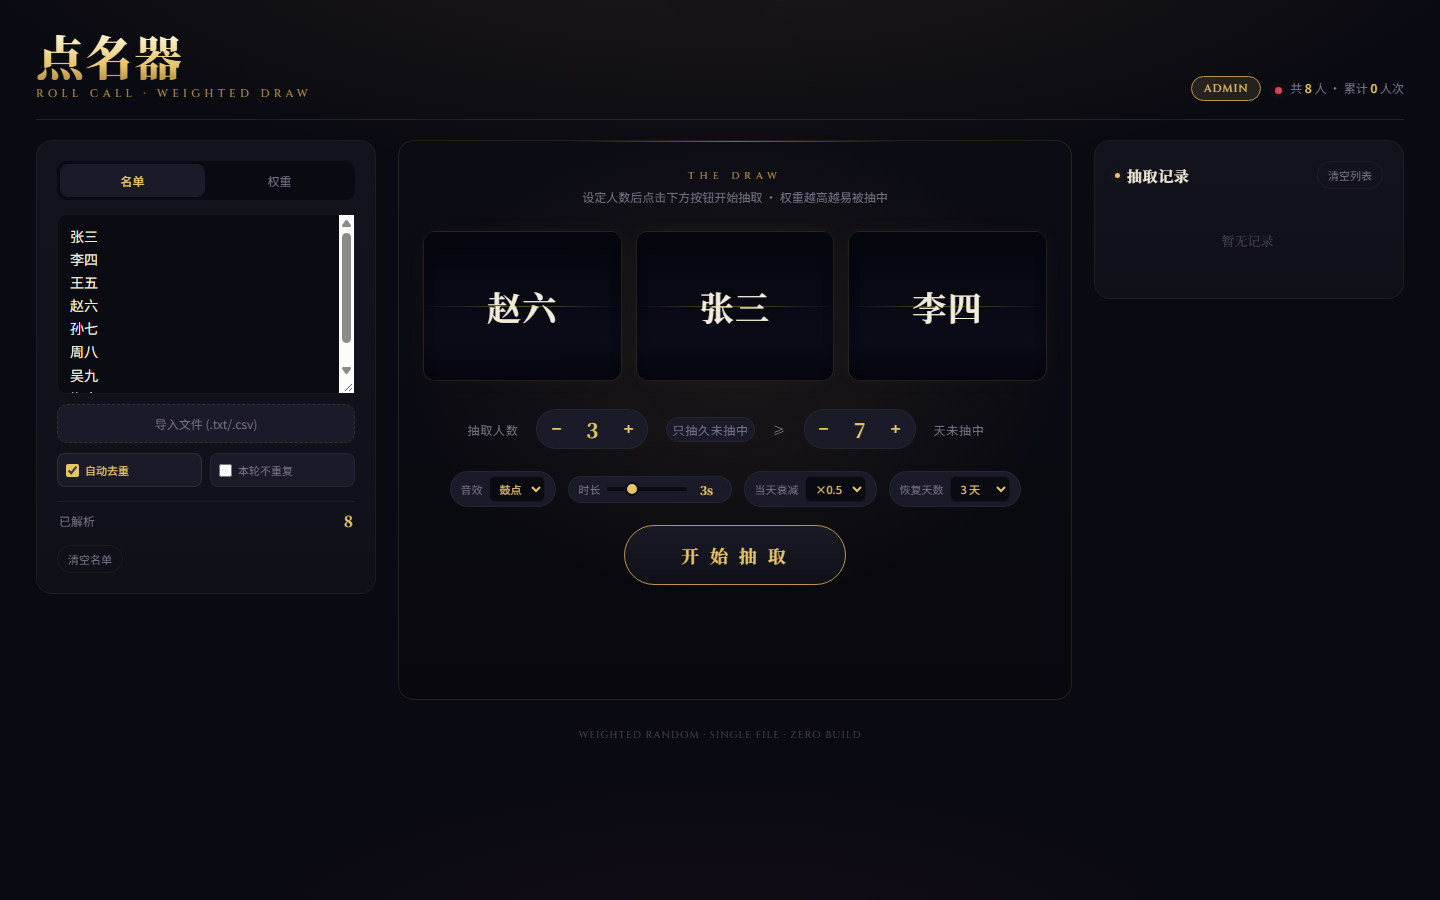
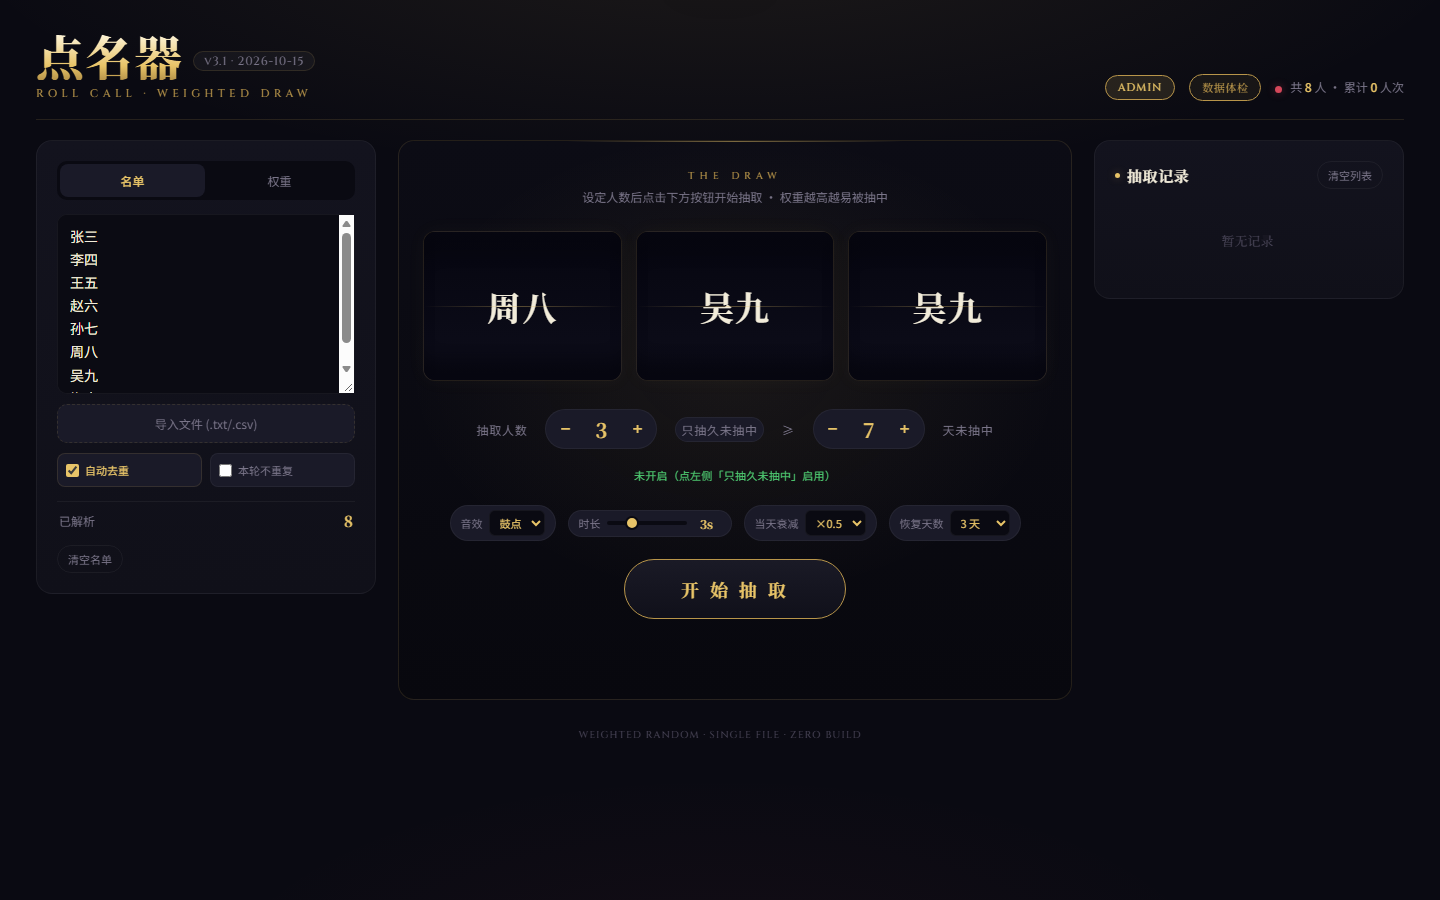
Update to v3.1: auto-enable longMode on threshold change, merge save to prevent overwrite, data self-heal, health check panel

diff --git a/index.html b/index.html
@@ -61,6 +61,45 @@ header.top{
 }
 .role-badge.admin{background:rgba(232,196,104,.12);border:1px solid var(--gold-dim);color:var(--gold)}
 .role-badge.viewer{background:rgba(78,203,113,.1);border:1px solid rgba(78,203,113,.3);color:var(--green)}
+.ver{
+  display:inline-block;margin-left:10px;font-family:var(--display);font-weight:500;
+  font-size:12px;letter-spacing:.06em;color:var(--muted);
+  background:rgba(255,255,255,.04);border:1px solid var(--line);border-radius:20px;padding:3px 10px;
+  vertical-align:middle;transform:translateY(-3px);
+}
+.mini-btn{
+  font-family:var(--display);font-size:11px;letter-spacing:.05em;color:var(--gold-dim);
+  background:rgba(232,196,104,.06);border:1px solid var(--gold-dim);border-radius:20px;
+  padding:4px 12px;cursor:pointer;transition:all .2s;
+}
+.mini-btn:hover{background:rgba(232,196,104,.15);color:var(--gold)}
+.health-mask{
+  position:fixed;inset:0;z-index:999;display:flex;align-items:center;justify-content:center;
+  background:rgba(0,0,0,.55);backdrop-filter:blur(3px);padding:16px;
+}
+.health-panel{
+  width:min(720px,94vw);max-height:80vh;display:flex;flex-direction:column;
+  background:linear-gradient(180deg,#17130d,#14100b);border:1px solid var(--gold-dim);
+  border-radius:14px;box-shadow:0 24px 70px rgba(0,0,0,.6);overflow:hidden;
+}
+.hp-head{
+  display:flex;align-items:center;justify-content:space-between;
+  padding:14px 18px;border-bottom:1px solid var(--line);
+  font-family:var(--serif);font-weight:700;font-size:16px;color:var(--gold);
+}
+.hp-head button{
+  background:none;border:none;color:var(--muted);font-size:20px;cursor:pointer;line-height:1;
+}
+.hp-head button:hover{color:var(--gold)}
+.hp-body{padding:14px 18px 18px;overflow:auto;font-size:13px}
+.hp-line{margin-bottom:8px;line-height:1.7;color:var(--text)}
+.hp-table{width:100%;border-collapse:collapse;margin-top:8px}
+.hp-table th{
+  text-align:left;font-family:var(--display);font-weight:500;font-size:11px;
+  letter-spacing:.05em;color:var(--gold-dim);padding:6px 8px;border-bottom:1px solid var(--line);
+}
+.hp-table td{padding:6px 8px;border-bottom:1px solid rgba(255,255,255,.04);color:var(--text)}
+.hp-table tr:last-child td{border-bottom:none}
 .conn-dot{
   width:7px;height:7px;border-radius:50%;display:inline-block;margin-right:5px;
   vertical-align:middle;
@@ -454,11 +493,12 @@ textarea.names::placeholder{color:var(--muted2)}
 <div class="app is-admin" id="app">
   <header class="top">
     <div class="brand">
-      <h1>点名器</h1>
+      <h1>点名器<span class="ver">v3.1 · 2026-10-15</span></h1>
       <div class="sub">Roll Call · Weighted Draw</div>
     </div>
     <div class="top-right">
       <span class="role-badge admin" id="roleBadge">ADMIN</span>
+      <button class="mini-btn" id="healthBtn" title="查看名单抽取状态、开关与数据是否正常">数据体检</button>
       <div class="top-meta">
         <span class="conn-dot off" id="connDot"></span>
         共 <b id="metaCount">0</b> 人 · 累计 <b id="metaDrawn">0</b> 人次
@@ -717,6 +757,24 @@ function load(){
   }catch(e){}
 }
 function save(){
+  // 防多开覆盖：合并本地已有数据中更大的累计次数 / 更新的上次抽中日期，
+  // 避免“旧标签页/旧文件”把抽完的新数据写回去（累计卡住不涨的根因之一）
+  try{
+    const old=JSON.parse(localStorage.getItem(KEY)||'{}');
+    if(old.pickCounts&&typeof old.pickCounts==='object'){
+      Object.keys(old.pickCounts).forEach(k=>{
+        const b=old.pickCounts[k]||0;
+        if(b>(state.pickCounts[k]||0))state.pickCounts[k]=b;
+      });
+    }
+    if(old.lastPicks&&typeof old.lastPicks==='object'){
+      Object.keys(old.lastPicks).forEach(k=>{
+        const b=(old.lastPicks[k]||'').slice(0,10);
+        const a=(state.lastPicks[k]||'').slice(0,10);
+        if(b&&(!a||b>a))state.lastPicks[k]=b;
+      });
+    }
+  }catch(e){}
   localStorage.setItem(KEY,JSON.stringify({
     version:3,
     names:state.names,pickCount:state.pickCount,
@@ -727,6 +785,21 @@ function save(){
     recoverDays:state.recoverDays,longMode:state.longMode,longDays:state.longDays,
     decayPaused:state.decayPaused
   }));
+}
+
+// 数据自愈：从抽取记录(history)回填缺失的“上次抽中日期”，
+// 防止被旧版清空/多开覆盖后误判为“从未抽中”而反复被抽中
+function healLastPicks(){
+  if(!state.history||!state.history.length)return;
+  let changed=false;
+  state.history.forEach(h=>{
+    const date=(h.t||'').slice(0,10);
+    if(!date)return;
+    h.names.forEach(n=>{
+      if(!state.lastPicks[n]){state.lastPicks[n]=date;changed=true;}
+    });
+  });
+  if(changed)save();
 }
 
 // ===== WEBSOCKET =====
@@ -905,6 +978,7 @@ function renderSlotsIdle(){
 // ===== DRAW =====
 function draw(){
   if(state.role!=='admin'||isDrawing)return;
+  healLastPicks();  // 先自愈缺失的“上次抽中日期”，再过滤
   let pool=state.names.slice();
   if(!pool.length){toast('请先导入名单',true);return;}
   // 本轮不重复：先排除本轮已抽过的人
@@ -1154,7 +1228,24 @@ function longCandidates(){
 function updateLongHint(){
   const hint=$('#longHint');
   if(!hint)return;
-  hint.textContent=state.longMode?('只抽 ≥'+state.longDays+' 天未抽中 · 当前符合 '+longCandidates().length+' 人'):'';
+  hint.textContent=state.longMode
+    ?('只抽 ≥'+state.longDays+' 天未抽中 · 当前符合 '+longCandidates().length+' 人')
+    :'未开启（点左侧「只抽久未抽中」启用）';
+}
+function openHealth(){
+  healLastPicks();
+  const rows=state.names.map(n=>{
+    const cnt=state.pickCounts[n]||0;
+    const last=state.lastPicks[n];
+    const ds=last?daysBetween(last,todayStr()):null;
+    const ok=(!last||ds>=state.longDays);
+    return '<tr><td>'+n+'</td><td>'+cnt+'</td><td>'+(last||'—')+'</td><td>'+(ds===null?'从未抽中':ds+' 天')+'</td><td>'+(state.longMode?(ok?'✓ 符合':'✗ 近抽过'):'—')+'</td></tr>';
+  }).join('');
+  $('#healthBody').innerHTML=
+    '<div class="hp-line">「只抽久未抽中」：'+(state.longMode?'<b style="color:#4ecb65">已开启</b>':'<b style="color:#e5534b">未开启</b>')+' · 阈值 ≥'+state.longDays+' 天 · 当前符合 '+longCandidates().length+' 人</div>'+
+    '<div class="hp-line">「本轮不重复」：'+(state.exclude?'开':'关')+' · 抽取人数 '+state.pickCount+' · 抽取记录 '+state.history.length+' 条（最多保留 100 条）</div>'+
+    '<table class="hp-table"><tr><th>名字</th><th>累计次数</th><th>上次抽中</th><th>距上次</th><th>≥'+state.longDays+'天</th></tr>'+rows+'</table>';
+  $('#healthMask').style.display='flex';
 }
 function syncConfigUI(){
   $('#pickVal').textContent=state.pickCount;
@@ -1244,8 +1335,8 @@ function init(){
     updateLongHint();save();
     broadcast('config',{pickCount:state.pickCount,sound:state.sound,duration:state.duration,decay:state.decay,recoverDays:state.recoverDays,longMode:state.longMode,longDays:state.longDays,decayPaused:state.decayPaused});
   };
-  $('#longMinus').onclick=()=>{if(state.longDays>1){state.longDays--;$('#longVal').textContent=state.longDays;updateLongHint();save();broadcast('config',{pickCount:state.pickCount,sound:state.sound,duration:state.duration,decay:state.decay,recoverDays:state.recoverDays,longMode:state.longMode,longDays:state.longDays,decayPaused:state.decayPaused});}};
-  $('#longPlus').onclick=()=>{if(state.longDays<30){state.longDays++;$('#longVal').textContent=state.longDays;updateLongHint();save();broadcast('config',{pickCount:state.pickCount,sound:state.sound,duration:state.duration,decay:state.decay,recoverDays:state.recoverDays,longMode:state.longMode,longDays:state.longDays,decayPaused:state.decayPaused});}};
+  $('#longMinus').onclick=()=>{if(state.longDays>1){state.longDays--;$('#longVal').textContent=state.longDays;if(!state.longMode){state.longMode=true;$('#longToggle').classList.add('on');toast('已自动开启「只抽久未抽中」');}updateLongHint();save();broadcast('config',{pickCount:state.pickCount,sound:state.sound,duration:state.duration,decay:state.decay,recoverDays:state.recoverDays,longMode:state.longMode,longDays:state.longDays,decayPaused:state.decayPaused});}};
+  $('#longPlus').onclick=()=>{if(state.longDays<30){state.longDays++;$('#longVal').textContent=state.longDays;if(!state.longMode){state.longMode=true;$('#longToggle').classList.add('on');toast('已自动开启「只抽久未抽中」');}updateLongHint();save();broadcast('config',{pickCount:state.pickCount,sound:state.sound,duration:state.duration,decay:state.decay,recoverDays:state.recoverDays,longMode:state.longMode,longDays:state.longDays,decayPaused:state.decayPaused});}};
 
   $('#drawBtn').onclick=draw;
 
@@ -1270,6 +1361,11 @@ function init(){
     toast(state.decayPaused?'已暂停衰减，所有人权重恢复正常':'已恢复自动衰减');
   };
 
+  // 数据体检：一眼看清开关状态、每人累计次数/上次日期/是否符合“≥N 天”
+  $('#healthBtn').onclick=openHealth;
+  $('#healthClose').onclick=()=>{$('#healthMask').style.display='none';};
+  $('#healthMask').onclick=e=>{if(e.target.id==='healthMask')$('#healthMask').style.display='none';};
+
   syncNamesFromInput(true);renderHistory();renderMeta();renderWeights();
 
   document.onkeydown=e=>{
@@ -1283,5 +1379,11 @@ document.addEventListener('DOMContentLoaded',init);
 })();
 </script>
 
+<div class="health-mask" id="healthMask" style="display:none">
+  <div class="health-panel">
+    <div class="hp-head"><span>数据体检 · 点名器 v3.1</span><button id="healthClose" aria-label="关闭">×</button></div>
+    <div class="hp-body" id="healthBody"></div>
+  </div>
+</div>
 
 </body></html>

diff --git a/README.md b/README.md
@@ -18,6 +18,13 @@
 - **修复"恢复衰减"的显示 bug**：旧版点"恢复衰减"会把所有人的上次抽中日期清掉，导致"被抽过却显示从未抽中"；新版改成"暂停/恢复衰减"开关，不再动数据，缺的日期会自动从抽取记录里补回来
 - **修复"只抽久未抽中"失效的 bug**：之前"只抽久未抽中"和"本轮不重复"同时开的时候，久未抽中会失效，昨天刚抽过的人也可能被抽到；现在两个筛选可以叠加，先排除本轮已抽，再只从超过 N 天未抽中的人里抽
 
+## v3.1 更新（2026-10-15）
+
+- **调天数自动开启功能**：以前"只抽久未抽中"的开关和"≥N 天"阈值是两个独立设置，只调天数不开开关的话过滤不生效；现在一调天数就自动开启，旁边也会常显"当前符合 X 人"
+- **修复累计次数被覆盖**：多开标签页时旧数据会把新抽的次数顶回去（看着像卡住不涨）；现在保存时自动合并，取更大的累计次数、更新的抽中日期，谁也别想覆盖谁
+- **抽取前数据自愈**：上次抽中日期缺失时自动从抽取记录里补回来，不会误判成"从未抽中"而反复被抽
+- **数据体检**：右上角多了个"数据体检"按钮，一眼看清开关状态、每人累计几次、上次哪天、是否符合"≥N 天"
+
 ## 怎么用
 
 1. 下载 index.html
